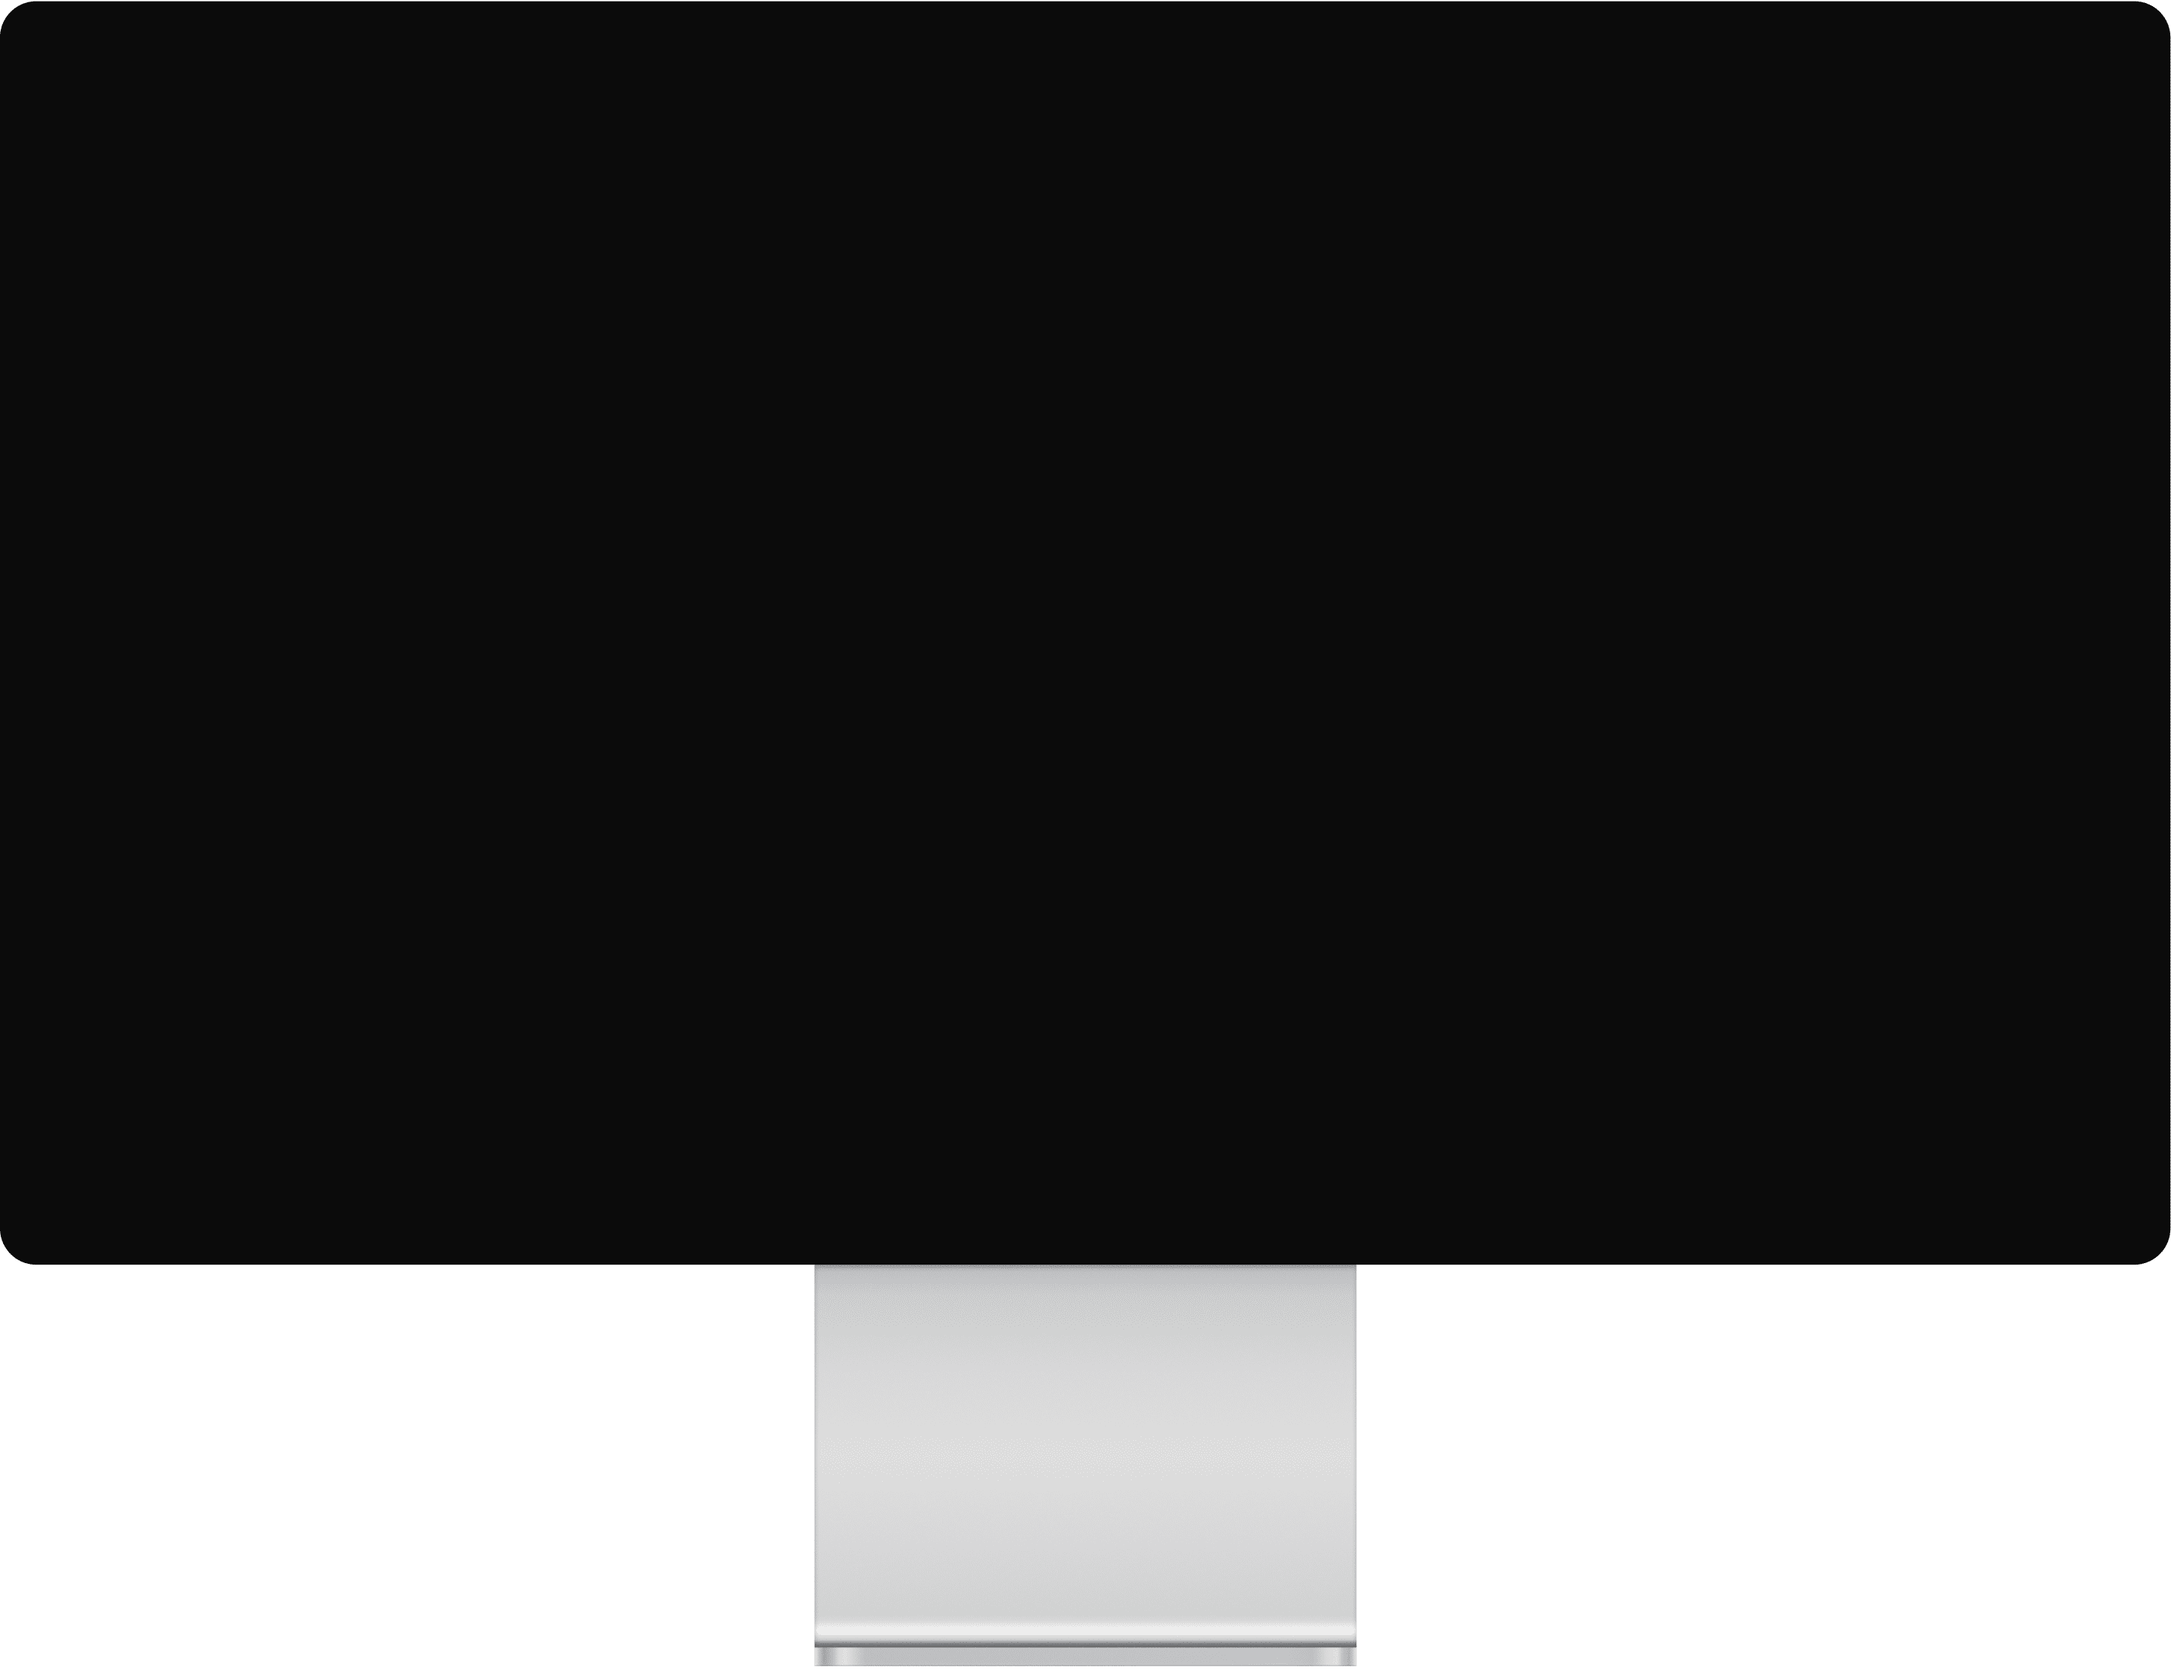
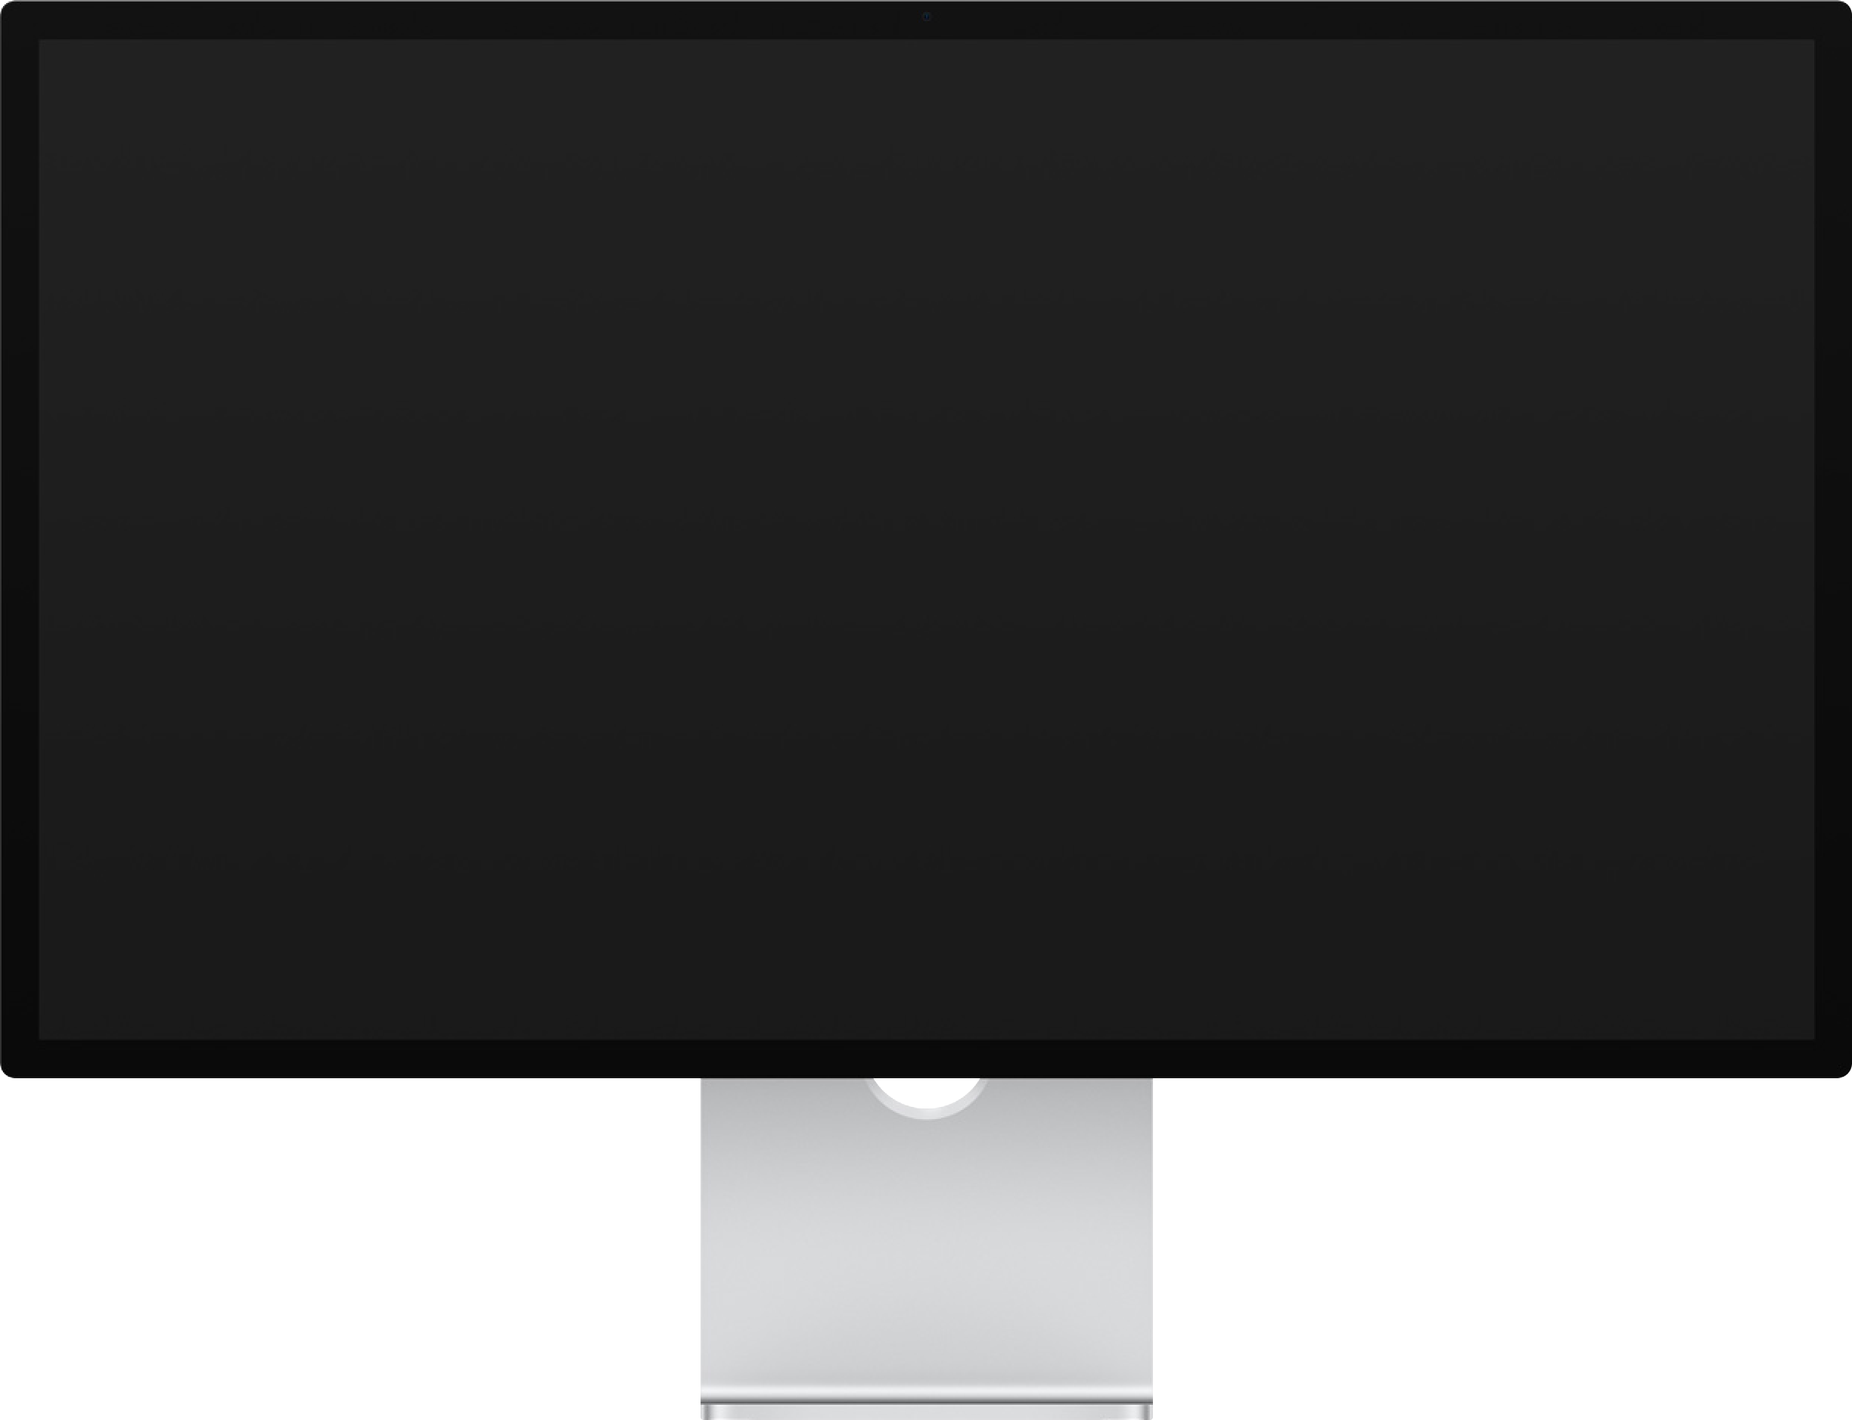
Update Desktop Display

diff --git a/prototype/components/Environment.tsx b/prototype/components/Environment.tsx
@@ -29,9 +29,11 @@ const Environment = forwardRef<HTMLDivElement, Environment>(
     const windowAspectRatio = 2;
     const pageMargin = 13.3333333334;
 
-    const desktopDisplayAspectRatio = "1.7796160025";
-    const desktopDisplayWidth = "104.4385396571";
-    const desktopDisplayTop = "2.9175843598";
+    const desktopDisplayAspectRatio = 1.7730711044;
+    const desktopDisplayBezel = 104.4368600683;
+    const desktopDisplayTop = 2.7689030884;
+    const desktopDisplayWidth = 2448;
+    const desktopDisplayHeight = 1878;
 
     const device = (() => {
       if (theme === "macos" || theme === "windows") {
@@ -121,14 +123,14 @@ const Environment = forwardRef<HTMLDivElement, Environment>(
                   position: "absolute",
                   top: 0,
                   left: "50%",
-                  width: `${desktopDisplayWidth}%`,
+                  width: `${desktopDisplayBezel}%`,
                   transform: `translate(-50%, -${desktopDisplayTop}%)`,
                 }}
               >
                 <Image
                   src={`/${device}-display.png`}
-                  width={2870}
-                  height={2208}
+                  width={desktopDisplayWidth}
+                  height={desktopDisplayHeight}
                   alt="Device display"
                   style={{
                     width: "100%",
